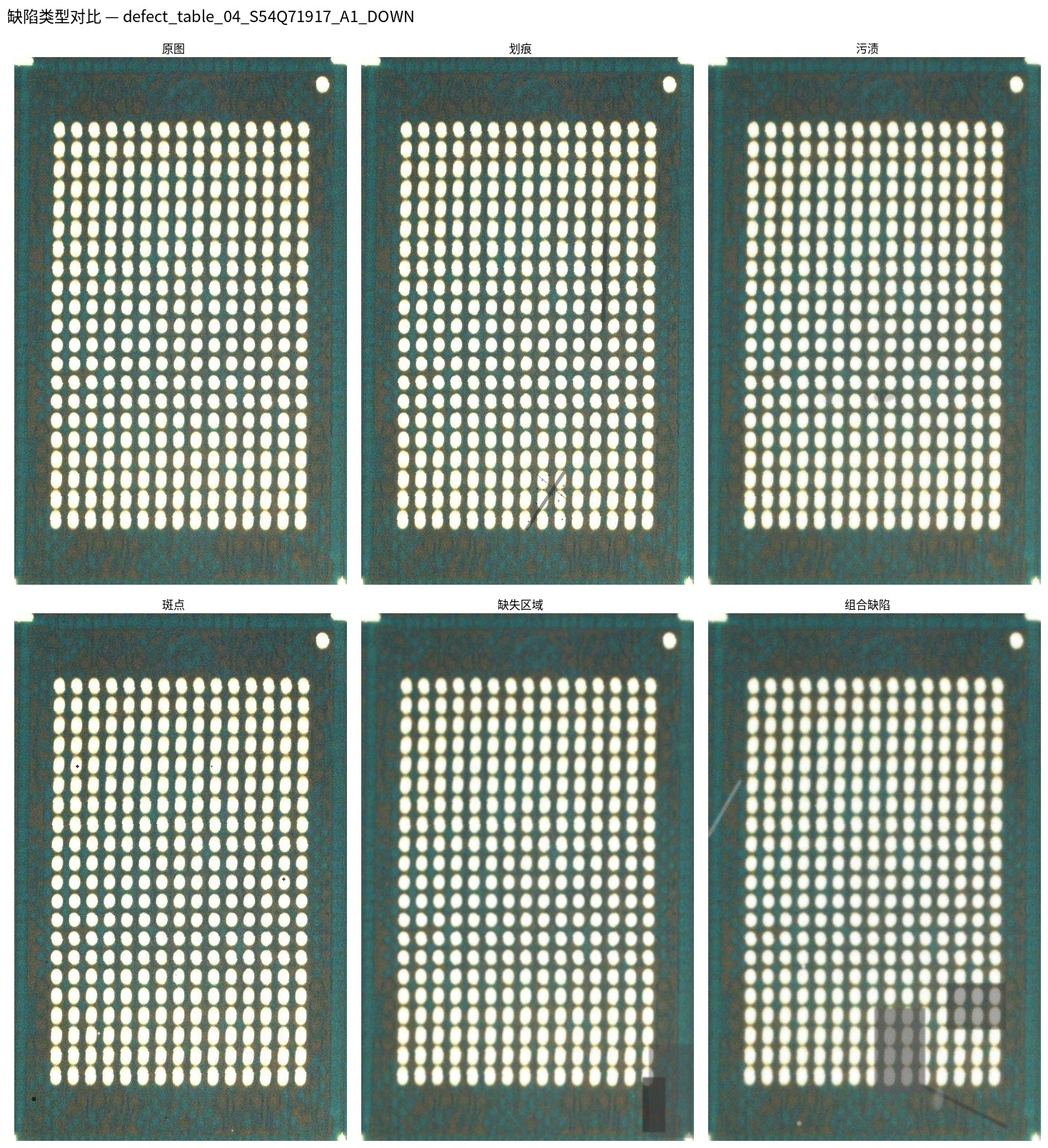
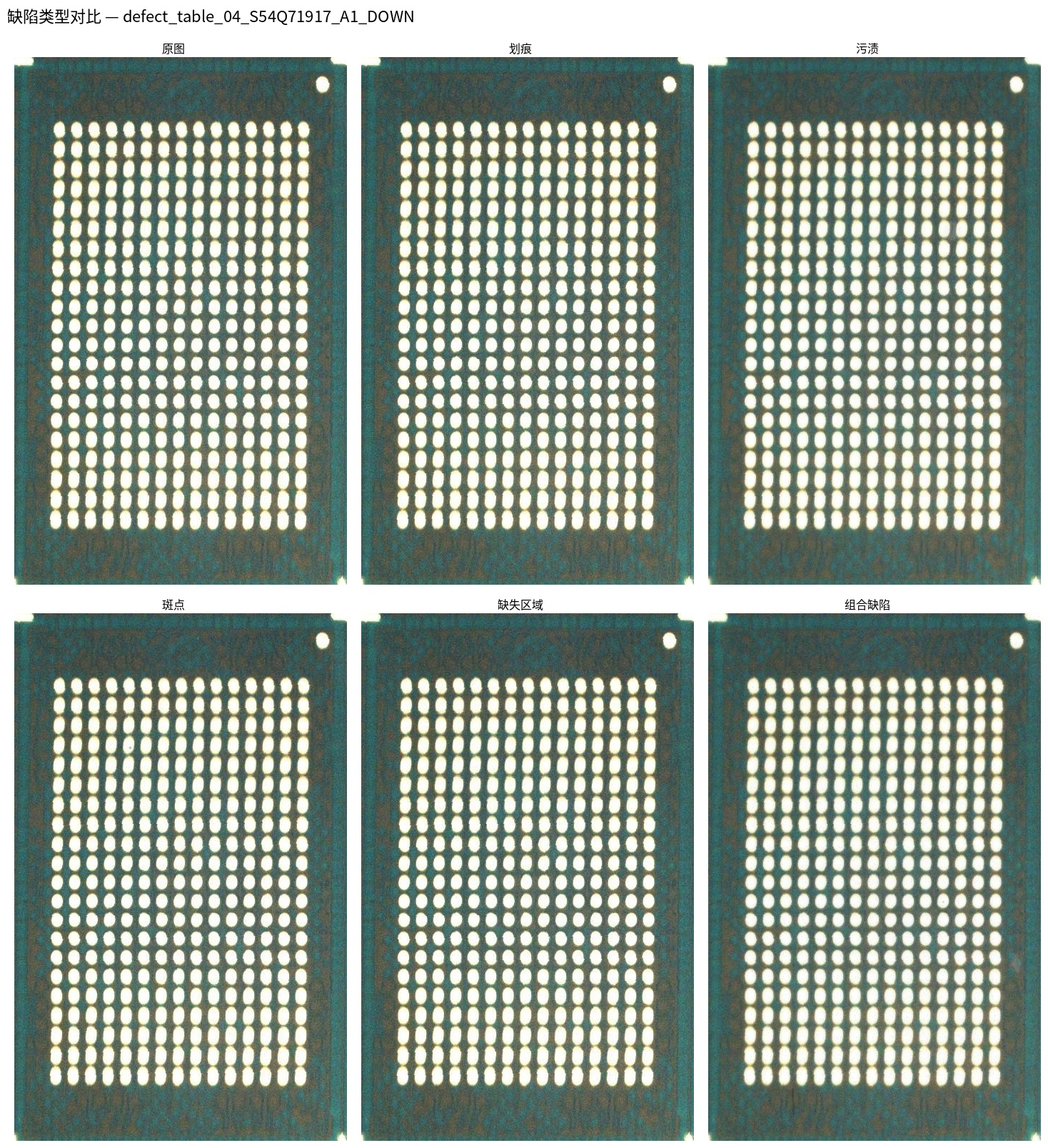
fix: 划痕/斑点/缺失区域透明度调至适中(比污渍稍浓)

diff --git a/generate_synthetic_defects.py b/generate_synthetic_defects.py
@@ -46,10 +46,10 @@ def imwrite_unicode(path, img):
         return False
 
 def add_scratch(img, 
-                max_scratches=3, 
-                min_len=0.05, max_len=0.3,
-                min_width=1, max_width=4,
-                min_opacity=0.3, max_opacity=0.8):
+                max_scratches=2, 
+                min_len=0.05, max_len=0.25,
+                min_width=1, max_width=2,
+                min_opacity=0.18, max_opacity=0.38):
     """
     添加随机划痕（直线或轻微弯曲）"""
     h, w = img.shape[:2]
@@ -131,9 +131,9 @@ def add_stains(img,
 
 
 def add_spots(img, 
-              max_spots=15,
-              spot_size=3,
-              opacity_range=(0.5, 1.0)):
+              max_spots=6,
+              spot_size=2,
+              opacity_range=(0.15, 0.30)):
     """添加斑点/颗粒"""
     h, w = img.shape[:2]
     result = img.copy()
@@ -160,32 +160,32 @@ def add_spots(img,
 
 
 def add_missing_region(img,
-                       max_regions=2,
-                       min_ratio=0.05, max_ratio=0.20):
-    """添加缺失区域（模拟die缺失）"""
+                       max_regions=1,
+                       min_ratio=0.03, max_ratio=0.10):
+    """添加缺失区域（模拟die缺失，半透明）"""
     h, w = img.shape[:2]
     result = img.copy()
     
-    for _ in range(random.randint(1, max_regions)):
-        overlay = result.copy()
-        region_w = int(w * random.uniform(min_ratio, max_ratio))
-        region_h = int(h * random.uniform(min_ratio, max_ratio))
-        region_w = min(region_w, w // 2)
-        region_h = min(region_h, h // 2)
-        
-        x1 = random.randint(0, w - region_w - 1)
-        y1 = random.randint(0, h - region_h - 1)
-        
-        # 深色区域
-        color = random.randint(30, 90)
-        cv2.rectangle(overlay, (x1, y1), (x1+region_w, y1+region_h),
-                     (color, color, color), -1)
-        
-        # 轻微模糊边缘
-        overlay = cv2.GaussianBlur(overlay, (5, 5), 0)
-        
-        opacity = random.uniform(0.4, 0.8)
-        result = cv2.addWeighted(result, 1 - opacity, overlay, opacity, 0)
+    if random.random() < 0.5:  # 50%概率不添加
+        return result
+    
+    overlay = result.copy()
+    region_w = int(w * random.uniform(min_ratio, max_ratio))
+    region_h = int(h * random.uniform(min_ratio, max_ratio))
+    region_w = min(region_w, w // 4)
+    region_h = min(region_h, h // 4)
+    
+    x1 = random.randint(0, w - region_w - 1)
+    y1 = random.randint(0, h - region_h - 1)
+    
+    color = random.randint(40, 100)
+    cv2.rectangle(overlay, (x1, y1), (x1+region_w, y1+region_h),
+                 (color, color, color), -1)
+    
+    overlay = cv2.GaussianBlur(overlay, (5, 5), 0)
+    
+    opacity = random.uniform(0.18, 0.35)
+    result = cv2.addWeighted(result, 1 - opacity, overlay, opacity, 0)
     
     return result
 

diff --git a/生成实验数据/generate_synthetic_defects.py b/生成实验数据/generate_synthetic_defects.py
@@ -46,10 +46,10 @@ def imwrite_unicode(path, img):
         return False
 
 def add_scratch(img, 
-                max_scratches=3, 
-                min_len=0.05, max_len=0.3,
-                min_width=1, max_width=4,
-                min_opacity=0.3, max_opacity=0.8):
+                max_scratches=2, 
+                min_len=0.05, max_len=0.25,
+                min_width=1, max_width=2,
+                min_opacity=0.18, max_opacity=0.38):
     """
     添加随机划痕（直线或轻微弯曲）"""
     h, w = img.shape[:2]
@@ -131,9 +131,9 @@ def add_stains(img,
 
 
 def add_spots(img, 
-              max_spots=15,
-              spot_size=3,
-              opacity_range=(0.5, 1.0)):
+              max_spots=6,
+              spot_size=2,
+              opacity_range=(0.15, 0.30)):
     """添加斑点/颗粒"""
     h, w = img.shape[:2]
     result = img.copy()
@@ -160,32 +160,32 @@ def add_spots(img,
 
 
 def add_missing_region(img,
-                       max_regions=2,
-                       min_ratio=0.05, max_ratio=0.20):
-    """添加缺失区域（模拟die缺失）"""
+                       max_regions=1,
+                       min_ratio=0.03, max_ratio=0.10):
+    """添加缺失区域（模拟die缺失，半透明）"""
     h, w = img.shape[:2]
     result = img.copy()
     
-    for _ in range(random.randint(1, max_regions)):
-        overlay = result.copy()
-        region_w = int(w * random.uniform(min_ratio, max_ratio))
-        region_h = int(h * random.uniform(min_ratio, max_ratio))
-        region_w = min(region_w, w // 2)
-        region_h = min(region_h, h // 2)
-        
-        x1 = random.randint(0, w - region_w - 1)
-        y1 = random.randint(0, h - region_h - 1)
-        
-        # 深色区域
-        color = random.randint(30, 90)
-        cv2.rectangle(overlay, (x1, y1), (x1+region_w, y1+region_h),
-                     (color, color, color), -1)
-        
-        # 轻微模糊边缘
-        overlay = cv2.GaussianBlur(overlay, (5, 5), 0)
-        
-        opacity = random.uniform(0.4, 0.8)
-        result = cv2.addWeighted(result, 1 - opacity, overlay, opacity, 0)
+    if random.random() < 0.5:  # 50%概率不添加
+        return result
+    
+    overlay = result.copy()
+    region_w = int(w * random.uniform(min_ratio, max_ratio))
+    region_h = int(h * random.uniform(min_ratio, max_ratio))
+    region_w = min(region_w, w // 4)
+    region_h = min(region_h, h // 4)
+    
+    x1 = random.randint(0, w - region_w - 1)
+    y1 = random.randint(0, h - region_h - 1)
+    
+    color = random.randint(40, 100)
+    cv2.rectangle(overlay, (x1, y1), (x1+region_w, y1+region_h),
+                 (color, color, color), -1)
+    
+    overlay = cv2.GaussianBlur(overlay, (5, 5), 0)
+    
+    opacity = random.uniform(0.18, 0.35)
+    result = cv2.addWeighted(result, 1 - opacity, overlay, opacity, 0)
     
     return result
 
